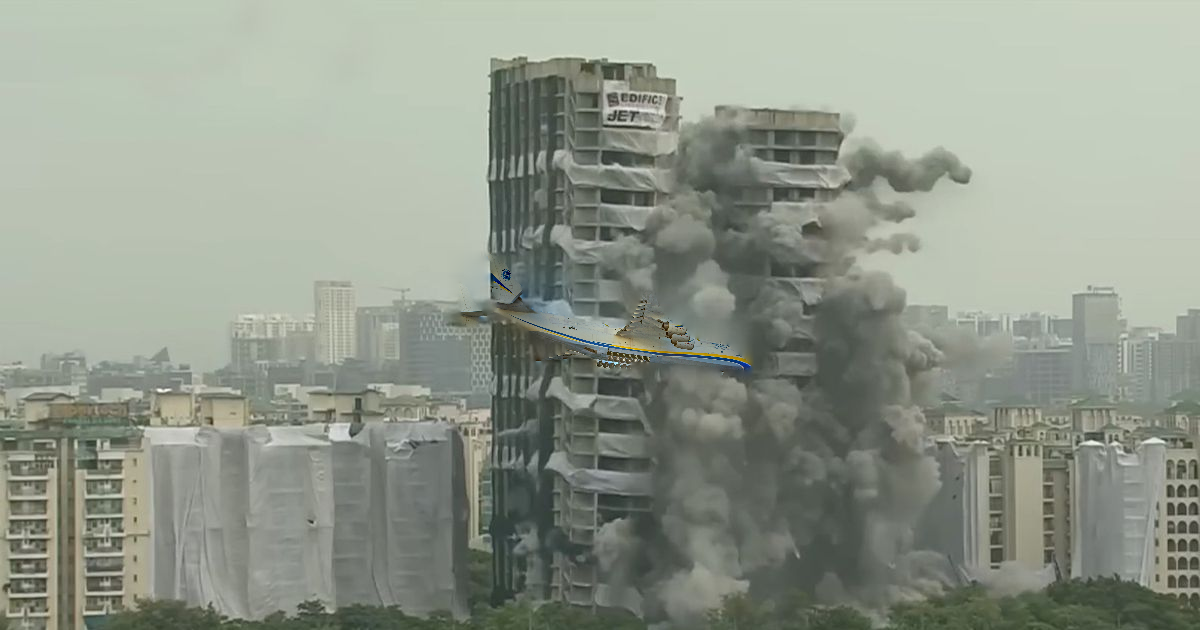
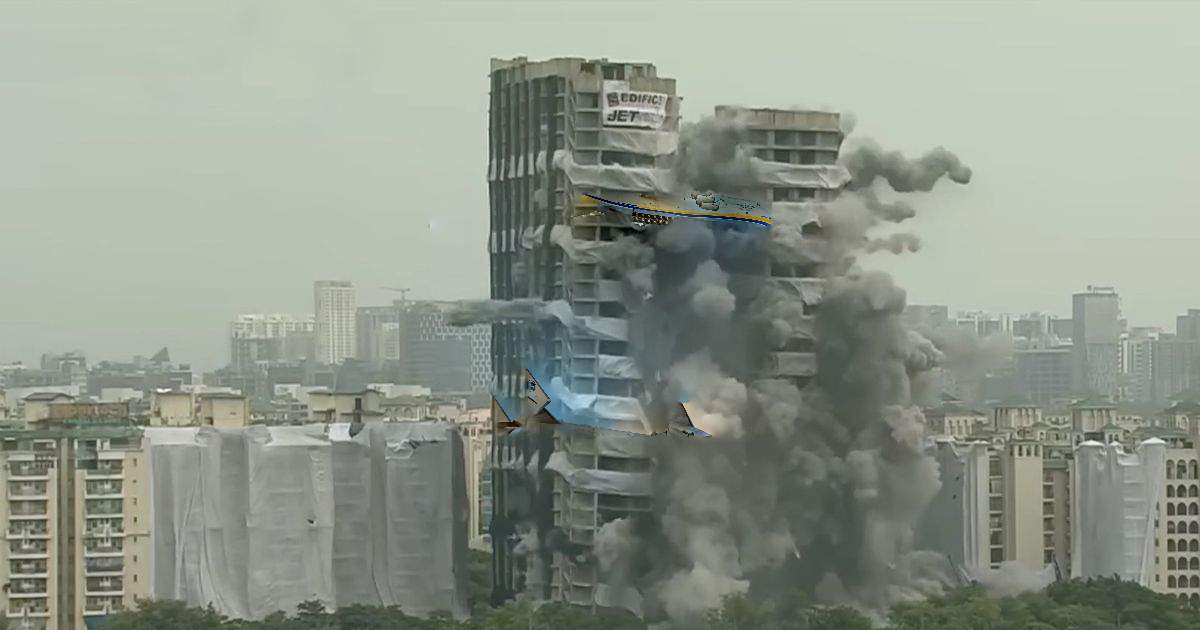
Everything dont work

Changed region(s): [[0.37, 0.3016, 0.6475, 0.6937]]

diff --git a/Lab09/src/Mask.py b/Lab09/src/Mask.py
@@ -11,7 +11,8 @@ class MaskCreator:
         self.target_path = target_path
 
         self.target = cv2.imread(target_path)
-        self.mask = np.zeros_like(self.target)
+        self.mask = np.zeros(self.target.shape[:2], dtype=np.uint8)
+        # self.mask = np.zeros_like(self.target)
 
         self._target = self.target.copy()
         self._mask = self.mask.copy()
@@ -28,17 +29,19 @@ class MaskCreator:
 
         if event == cv2.EVENT_LBUTTONDOWN:
             self.draw = True
-            cv2.circle(self.mask, (x, y), self.brush_size, (255, 255, 255), -1)
+            # cv2.circle(self.mask, (x, y), self.brush_size, (255, 255, 255), -1)
+            cv2.circle(self.mask, (x, y), self.brush_size, 255, -1)
             cv2.circle(self.target, (x, y), self.brush_size, (255, 255, 255), -1)
         elif event == cv2.EVENT_MOUSEMOVE:
             if self.draw:
-                cv2.circle(self.mask, (x, y), self.brush_size, (255, 255, 255), -1)
+                # cv2.circle(self.mask, (x, y), self.brush_size, (255, 255, 255), -1)
+                cv2.circle(self.mask, (x, y), self.brush_size, 255, -1)
                 cv2.circle(self.target, (x, y), self.brush_size, (255, 255, 255), -1)
         elif event == cv2.EVENT_LBUTTONUP: self.draw = False
 
     def draw_mask(self):  #, save: bool = False
         cv2.namedWindow(self.window_name, cv2.WINDOW_NORMAL)
-        cv2.resizeWindow(self.window_name, 800, 600)
+        # cv2.resizeWindow(self.window_name, 800, 600)
         cv2.setMouseCallback(self.window_name, self._draw_mask)
 
         while True:
@@ -105,62 +108,19 @@ class MaskMover:
 
     def move_mask(self):
         cv2.namedWindow(self.window_name, cv2.WINDOW_NORMAL)
-        cv2.resizeWindow(self.window_name, 800, 600)
+        # cv2.resizeWindow(self.window_name, 800, 600)
         cv2.setMouseCallback(self.window_name, self._move_mask)
 
-
-
-        height, width = self.image.shape[:2]
-        base_x = width // 2
-        base_y = height // 2
-
         while True:
-            # display = np.where(self.mask > 0, self.mask, self.image)
-            display = self.image.copy()
-
-            # 2. Calculate current top-left corner
-            cur_x = base_x + self.offset_x
-            cur_y = base_y + self.offset_y
-
-            # 3. Handle Boundaries (Clipping) to prevent crash if moved off-screen
-            # Determine intersection rectangle
-            x1 = max(0, cur_x)
-            y1 = max(0, cur_y)
-            x2 = min(width, cur_x)
-            y2 = min(height, cur_y)
-
-            # Determine corresponding coordinates in the Target/Mask image
-            tx1 = x1 - cur_x
-            ty1 = y1 - cur_y
-            tx2 = tx1 + (x2 - x1)
-            ty2 = ty1 + (y2 - y1)
-
-            # 4. Draw the overlay if still on screen
-            if x2 > x1 and y2 > y1:
-                # Extract the region of interest (ROI) from background
-                roi = display[y1:y2, x1:x2]
-                
-                # Extract the corresponding mask and target area
-                mask_slice = self.mask[ty1:ty2, tx1:tx2]
-                target_slice = self.target[ty1:ty2, tx1:tx2]
-                
-                # Create visual blend (just for UI, not final result)
-                # Where mask is white, show target; otherwise show background ROI
-                # Note: mask needs to be 3-channel for this operations
-                mask_3ch = mask_slice if len(mask_slice.shape) == 3 else cv2.cvtColor(mask_slice, cv2.COLOR_GRAY2BGR)
-                mask_bool = mask_3ch > 0
-                
-                np.putmask(roi, mask_bool, target_slice)
+            self.mask = np.roll(self._mask, shift=(self.offset_y, self.offset_x), axis=(0, 1))
+            display = np.where(self.mask > 0, self.mask, self.image)
             cv2.imshow(self.window_name, display)
 
             key = cv2.waitKey(1) & 0xFF
             if key == ord("q"): sys.exit()
             elif key == ord("s"): break
             elif key == ord("r"):
-                self.image = self._image.copy()
                 self.mask = self._mask.copy()
         cv2.destroyAllWindows()
 
-        self.mask_path = os.path.join(os.path.dirname(self.target_path), "mask.png")
-        cv2.imwrite(self.mask_path, self.mask)
-        return self.mask_path
+        return (self.offset_x, self.offset_y)

diff --git a/Lab09/src/Poisson.py b/Lab09/src/Poisson.py
@@ -11,7 +11,9 @@ class Poisson:
         self.mask_path = mask_path
 
         self.image = cv2.imread(image_path)
-        self.offset = (self.image.shape[1] // 2, self.image.shape[0] // 2) #offset
+        # self.offset = ((self.image.shape[1] + offset[1]) // 2, (self.image.shape[0] + offset[0]) // 2) #offset
+        # self.offset = ((self.image.shape[1]) // 2, (self.image.shape[0]) // 2)
+        self.offset = offset
 
         max_size = np.array(target_size)
         image_size = self.image.shape[:2][::-1]
@@ -19,12 +21,15 @@ class Poisson:
 
         self.target = cv2.resize(cv2.imread(target_path), true_size)
         self.mask = cv2.resize(cv2.imread(mask_path), true_size)
-
-        # plt.subplot(131)
-        # plt.imshow(self.image)
-        # plt.subplot(132)
+        # plt.subplot(221)
         # plt.imshow(self.target)
-        # plt.subplot(133)
+        # plt.subplot(222)
+        # plt.imshow(self.mask)
+        # self.target = np.roll(self.target, shift=offset, axis=(0, 1))
+        # self.mask = np.roll(self.mask, shift=offset, axis=(0, 1))
+        # plt.subplot(223)
+        # plt.imshow(self.target)
+        # plt.subplot(224)
         # plt.imshow(self.mask)
         # plt.show()
 
